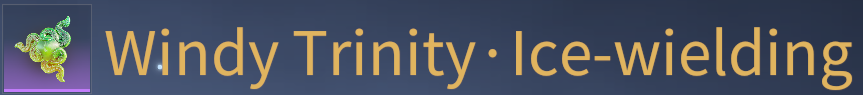
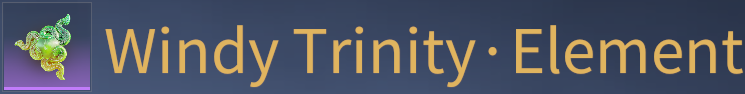
Updated to parity with the changes to Wielding Souljades.

Changed region(s): [[0.0, 0.1489, 1.0, 0.9787], [0.0, 0.0213, 0.1235, 0.0638]]

diff --git a/build.html b/build.html
@@ -57,7 +57,7 @@
 		<!-- Page Navigation -->
 		<nav class="page-nav">
 			<button onclick="showDiv(1, this)" class="page-nav-item">Jade Set Ups</button>
-			<button onclick="showDiv(2, this)" class="page-nav-item">Wielding Jades</button>
+			<button onclick="showDiv(2, this)" class="page-nav-item">Element Jades</button>
 			<button onclick="showDiv(3, this)" class="page-nav-item">Potential Plans</button>
 		</nav>
 
@@ -77,7 +77,7 @@
 					This section will showcase the standard Souljade setups for each damage type, 
 					including their respective strengths and weaknesses. 
 					Ensure you replace the (Ice/Thunder)-Wielding Souljade with the one corresponding to your hero's favored element.
-					See <a href="#" onclick="showDiv(2, this); return false;">Wielding Jades</a> for more info.
+					See <a href="#" onclick="showDiv(2, this); return false;">Element Jades</a> for more info.
 					In terms of damage output, right now Burn builds are at the top, followed by Thunder builds, and lastly Ice builds.
 					<br><br>The following builds are listed with no particular order in mind aside from their main damage source. 
 					Difficulty does not denote how strong a build is, but rather how hard it is to use it effectively. 
@@ -297,7 +297,7 @@
 					</tr>
 					<tr>
 						<td>
-							<img src="img/builds/poison/poisonfang.png" alt="Noxious Blast, Pestilent Pool, Infectious Touch, Miasma Drive, Cyan Fang • Poison-Wielding & Defuse • Solidification" class="portrait">
+							<img src="img/builds/poison/poisonfang.png" alt="Noxious Blast, Pestilent Pool, Infectious Touch, Miasma Drive, Cyan Fang • Element & Defuse • Solidification" class="portrait">
 							<p class="label">Potential Plan</p>
 							<p class="caption"><a href="build.html?option=3#Poison-Fang">Poison Fang</a> or <a href="build.html?option=3#Poison-Standard">Standard Poison</a></p>
 							<p class="label">Wielding Type</p>
@@ -374,7 +374,7 @@
 					</tr>
 					<tr>
 						<td>
-							<img src="img/builds/thunder/thunderwielder.png" alt="Thunderpull, Thunder Counter, Spring's Call, Thunder-Wielding Jade, Ice Break, & Sub-Zero Seal" class="portrait">
+							<img src="img/builds/thunder/thunderwielder.png" alt="Thunderpull, Thunder Counter, Spring's Call, Element Jade, Ice Break, & Sub-Zero Seal" class="portrait">
 							<p class="label">Potential Plan</p>
 							<p class="caption"><a href="build.html?option=3#Thunder-Standard">Standard Thunder</a></p>
 							<p class="label">Wielding Type</p>
@@ -393,7 +393,7 @@
 								<img src="img/site/unfilledstar.png" alt="Unfilled Difficulty Star" class="icon">
 								<img src="img/site/unfilledstar.png" alt="Unfilled Difficulty Star" class="icon">
 							<p class="label">Description</p>
-								<p class="caption">Thunderpull builds up Thundershock as you hit enemies with your powerful Thunder-Wielding attack,
+								<p class="caption">Thunderpull builds up Thundershock as you hit enemies with your powerful Element attack,
 									eventually summoning Divine Thunder that you can parry with Thunder Counter to deal massive damage to enemies in front of you.
 									Sub-Zero Seal will gradually build Frostbite on you.
 									Whenever you parry something, Ice Break will reset your Frostbite to 0 while also giving you a massive Attack boost from Spring's Call.
@@ -524,13 +524,13 @@
 				</table>
 			</div>
 
-			<!-- Wielding Jades -->
+			<!-- Element Jades -->
 			<div id="div2" class="content" style="display: none;">
-				<h1>Wielding Jades</h1>
+				<h1>Element Jades</h1>
 				<p class="center">With so many choices in Souljades and Potential Plans, it can be hard to know what build to go with.
-					This section will help for choosing the most optimal Wielding Souljades as well as what Potential Plans they best combo with.
-					Souljades with "-Wielding" in their name gain bonus elemental damage for that corresponding type, making it so you're able to activate
-					Ice Blasts or Divine Thunder faster on enemies using the special attacks they give. 
+					This section will help for choosing the most optimal Element Souljades as well as what Potential Plans they best combo with.
+					Souljades with "• Element" in their name gain bonus elemental damage for that corresponding type of Wielding they have, 
+					making it so you're able to activate Ice Blasts, Divine Thunder or Poison Blasts faster on enemies using the special attacks they give. 
 					They also generally have better DPS than their base counterpart.
 				</p>
 				<hr><h2>Table of Contents</h2>
@@ -538,7 +538,7 @@
 					<li><a href="#Viper Ning">I. Viper Ning</a></li>
 					<li><a href="#Feria Shen">II. Feria Shen</a></li>
 					<li><a href="#Tianhai">III. Tianhai</a></li>
-					<li><a href="#Temulch">IV. Temulch</a></li>
+					<li><a href="#Temulch">IV. Temulch & Yoto Hime</a></li>
 					<li><a href="#Tarka Ji">V. Tarka Ji</a></li>
 					<li><a href="#Kurumi">VI. Kurumi</a></li>
 					<li><a href="#Valda Cui">VII. Valda Cui</a></li>
@@ -553,10 +553,12 @@
 						<tbody>
 						<tr>
 							<td class="details">
-								<img src="img/builds/wielding/horizontalenergy.png" alt="Horizontal Energy • Ice-Wielding" class="with-caption">
-								<p class="description">Best used with <a href="build.html?option=3#Potential-Ice">Ice</a> Potential Plans.</p>
-								<img src="img/builds/wielding/verticalenergy.png" alt="Vertical Energy • Thunder-Wielding" class="with-caption">
-								<p class="description">Best used with <a href="build.html?option=3#Potential-Thunder">Thunder</a> Potential Plans.</p>
+								<img src="img/builds/wielding/horizontalenergy.png" alt="Horizontal Energy • Element" class="with-caption">
+								<p class="description">Best used with <a href="build.html?option=3#Potential-Ice">Ice</a> or 
+									<a href="build.html?option=3#Potential-Poison">Poison</a> Potential Plans.</p>
+								<img src="img/builds/wielding/cyanfang.png" alt="Cyan Fang • Element" class="with-caption">
+								<p class="description">Best used with <a href="build.html?option=3#Potential-Ice">Ice</a> or 
+									<a href="build.html?option=3#Potential-Poison">Poison</a> Potential Plans.</p>
 							</td>
 						</tr>
 						</tbody>
@@ -567,10 +569,10 @@
 						<tbody>
 						<tr>
 							<td class="details">
-								<img src="img/builds/wielding/velocityuntold.png" alt="Velocity Untold • Ice-Wielding" class="with-caption">
-								<p class="description">Best used with <a href="build.html?option=3#Potential-Ice">Ice</a> Potential Plans.</p>
-								<img src="img/builds/wielding/velocityuntold2.png" alt="Velocity Untold • Thunder-Wielding" class="with-caption">
-								<p class="description">Best used with <a href="build.html?option=3#Potential-Thunder">Thunder</a></p>
+								<img src="img/builds/wielding/velocityuntold.png" alt="Velocity Untold • Element" class="with-caption">
+								<p class="description">Best used with <a href="build.html?option=3#Potential-Ice">Ice</a>, 
+									<a href="build.html?option=3#Potential-Thunder">Thunder</a>, or 
+									<a href="build.html?option=3#Potential-Poison">Poison</a> Potential Plans.</p>
 							</td>
 						</tr>
 						</tbody>
@@ -581,10 +583,9 @@
 						<tbody>
 							<tr>
 								<td class="details">
-									<img src="img/builds/wielding/jabbing.png" alt="Jabbing • Ice-Wielding" class="with-caption">
-									<p class="description">Best used with <a href="build.html?option=3#Potential-Ice">Ice</a> Potential Plans.</p>
-									<img src="img/builds/wielding/onslaught.png" alt="Onslaught • Thunder-Wielding" class="with-caption">
-									<p class="description">Best used with <a href="build.html?option=3#Potential-Thunder">Thunder</a> Potential Plans.</p>
+									<img src="img/builds/wielding/onslaught.png" alt="Onslaught • Element" class="with-caption">
+									<p class="description">Best used with <a href="build.html?option=3#Potential-Ice">Ice</a> or
+										<a href="build.html?option=3#Potential-Poison">Poison</a> Potential Plans.</p>
 								</td>
 							</tr>
 						</tbody>
@@ -595,11 +596,10 @@
 						<tbody>
 							<tr>
 								<td class="details">
-									<img src="img/builds/wielding/aerialrend.png" alt="Aerial Rend • Ice-Wielding" class="with-caption">
-									<p class="description">Best used with <a href="build.html?option=3#Potential-Ice">Ice</a> or
-										<a href="build.html?option=3#Potential-Poison">Poison</a> Potential Plans.</p>
-									<img src="img/builds/wielding/rockfallslash.png" alt="Rockfall Slash • Thunder-Wielding" class="with-caption">
-									<p class="description">Best used with <a href="build.html?option=3#Potential-Thunder">Thunder</a> Potential Plans.</p>
+									<img src="img/builds/wielding/aerialrend.png" alt="Aerial Rend • Element" class="with-caption">
+									<p class="description">Best used with <a href="build.html?option=3#Potential-Ice">Ice</a>,
+										<a href="build.html?option=3#Potential-Poison">Poison</a> or 
+										<a href="build.html?option=3#Potential-Thunder">Thunder</a> Potential Plans.</p>
 								</td>
 							</tr>
 						</tbody>
@@ -610,8 +610,10 @@
 						<tbody>
 							<tr>
 								<td class="details">
-									<img src="img/builds/wielding/petalfallflurry.png" alt="Petal Fall Flurry • Thunder-Wielding" class="with-caption">
-									<p class="description">Best used with <a href="build.html?option=3#Potential-Thunder">Thunder</a> Potential Plans.</p>
+									<img src="img/builds/wielding/petalfallflurry.png" alt="Petal Fall Flurry • Element" class="with-caption">
+									<p class="description">Best used with <a href="build.html?option=3#Potential-Ice">Ice</a>,
+										<a href="build.html?option=3#Potential-Poison">Poison</a> or 
+										<a href="build.html?option=3#Potential-Thunder">Thunder</a> Potential Plans.</p>
 								</td>
 							</tr>
 						</tbody>
@@ -622,10 +624,10 @@
 						<tbody>
 							<tr>
 								<td class="details">
-									<img src="img/builds/wielding/horizontalblinkstrike.png" alt="Horizontal Blink Strike • Ice-Wielding" class="with-caption">
-									<p class="description">Best used with <a href="build.html?option=3#Potential-Ice">Ice</a> Potential Plans.</p>
-									<img src="img/builds/wielding/verticalblinkstrike.png" alt="Vertical Blink Strike • Thunder-Wielding" class="with-caption">
-									<p class="description">Best used with <a href="build.html?option=3#Potential-Thunder">Thunder</a> Potential Plans.</p>
+									<img src="img/builds/wielding/horizontalblinkstrike.png" alt="Horizontal Blink Strike • Element" class="with-caption">
+									<p class="description">Best used with <a href="build.html?option=3#Potential-Ice">Ice</a>,
+										<a href="build.html?option=3#Potential-Poison">Poison</a> or 
+										<a href="build.html?option=3#Potential-Thunder">Thunder</a> Potential Plans.</p>
 								</td>
 							</tr>
 						</tbody>
@@ -636,11 +638,10 @@
 						<tbody>
 							<tr>
 								<td class="details">
-									<img src="img/builds/wielding/crescentslam-I.png" alt="Crescent Slam • Ice-Wielding" class="with-caption">
-									<p class="description">Best used with <a href="build.html?option=3#Potential-Ice">Ice</a> or
-										<a href="build.html?option=3#Potential-Poison">Poison</a> Potential Plans.</p>
-									<img src="img/builds/wielding/crescentslam-T.png" alt="Crescent Slam • Thunder-Wielding" class="with-caption">
-									<p class="description">Best used with <a href="build.html?option=3#Potential-Thunder">Thunder</a> Potential Plans.</p>
+									<img src="img/builds/wielding/chainedsweeping.png" alt="Chained Sweeping • Element" class="with-caption">
+									<p class="description">Best used with <a href="build.html?option=3#Potential-Ice">Ice</a>,
+										<a href="build.html?option=3#Potential-Poison">Poison</a> or 
+										<a href="build.html?option=3#Potential-Thunder">Thunder</a> Potential Plans.</p>
 								</td>
 							</tr>
 						</tbody>
@@ -651,9 +652,10 @@
 						<tbody>
 							<tr>
 								<td class="details">
-									<img src="img/builds/wielding/torrentflow.png" alt="Torrent Flow • Thunder-Wielding" class="with-caption">
-									<p class="description">Best used with <a href="build.html?option=3#Potential-Thunder">Thunder</a> or
-										<a href="build.html?option=3#Potential-Poison">Poison</a> Potential Plans.</p>
+									<img src="img/builds/wielding/torrentflow.png" alt="Torrent Flow • Element" class="with-caption">
+									<p class="description">Best used with <a href="build.html?option=3#Potential-Ice">Ice</a>,
+										<a href="build.html?option=3#Potential-Poison">Poison</a> or 
+										<a href="build.html?option=3#Potential-Thunder">Thunder</a> Potential Plans.</p>
 								</td>
 							</tr>
 						</tbody>
@@ -664,10 +666,10 @@
 						<tbody>
 							<tr>
 								<td class="details">
-									<img src="img/builds/wielding/assassinlunge.png" alt="Assassin's Lunge • Ice-Wielding" class="with-caption">
-									<p class="description">Best used with <a href="build.html?option=3#Potential-Ice">Ice</a> Potential Plans.</p>
-									<img src="img/builds/wielding/uppercutrush.png" alt="Uppercut Rush • Ice-Wielding" class="with-caption">
-									<p class="description">Best used with <a href="build.html?option=3#Potential-Ice">Ice</a> Potential Plans.</p>
+									<img src="img/builds/wielding/cyanfang.png" alt="Cyan Fang • Element" class="with-caption">
+									<p class="description">Best used with <a href="build.html?option=3#Potential-Ice">Ice</a>,
+										<a href="build.html?option=3#Potential-Poison">Poison</a> or 
+										<a href="build.html?option=3#Potential-Thunder">Thunder</a> Potential Plans.</p>
 								</td>
 							</tr>
 						</tbody>
@@ -678,7 +680,7 @@
 						<tbody>
 							<tr>
 								<td class="details">
-									<img src="img/builds/wielding/windytrinity.png" alt="Windy Trinity • Wielding" class="with-caption">
+									<img src="img/builds/wielding/windytrinity.png" alt="Windy Trinity • Element" class="with-caption">
 									<p class="description">Best used with <a href="build.html?option=3#Potential-Ice">Ice</a> Potential Plans.</p>
 								</td>
 							</tr>
@@ -725,7 +727,7 @@
 					<h3 id="Poison-Fang">Poison Fang</h3>
 						<img src="img/builds/trees/2.0/PoisonFang.png" alt="Poisonous Assault Path with Divine Burst" class="large-example with-caption potential">
 						<p class="caption">
-							Aims to take advantage of the faster proc rate of Cyan Fang • Poison-Wielding for more Honed Duration.
+							Aims to take advantage of the faster proc rate of Cyan Fang • Element for more Honed Duration.
 						</p>
 					<h3 id="Poison-Storm">Poison Storm</h3>
 						<img src="img/builds/trees/2.0/PoisonStorm.png" alt="Poisonous Assault Path with Thunderous Power" class="large-example with-caption potential">

diff --git a/styles.css b/styles.css
@@ -218,7 +218,7 @@ img.icon {
         position: absolute;
         top: 0;
         bottom: 0;
-        width: 0.05vw;
+        width: 1px;
         background: linear-gradient(to bottom, rgba(0, 0, 0, 0.2), rgba(0, 0, 0, 0.8));
         right: -0.1vw;
     }
@@ -247,6 +247,7 @@ img.icon {
         /* background-color: var(--nav-secondary); */
         padding-bottom: 9px;
         border-bottom: 1px solid var(--nav-bottom);
+        border-top: 1px solid var(--nav-bottom);
 
         .dropdown-content {
             display: block;
@@ -269,7 +270,7 @@ img.icon {
 /* Website Navigation Bar - Dropdown Menu Stylings */
 .dropdown-content {
     display: none;
-    top: 100%;
+    top: 101%;
     transform: translateX(-50%);
     left: 50%;
     animation: slide-down .3s ease-out;

diff --git a/changelog.html b/changelog.html
@@ -72,6 +72,16 @@
 					</tr>
 				</thead>
 				<tbody>
+					<!-- Version 1.5.3 -->
+					<tr>
+						<td class="date">November 1, 2024</td>
+						<td class="version">1.5.3</td>
+						<td class="details">
+							<p class="left">- Updated -Wielding Souljades to Element.
+								<br>- Updated Wielding Jades Page. Now is called Element Jades.
+							</p>
+						</td>
+					</tr>
 					<!-- Version 1.5.2 -->
 					<tr>
 						<td class="date">October 16, 2024</td>
